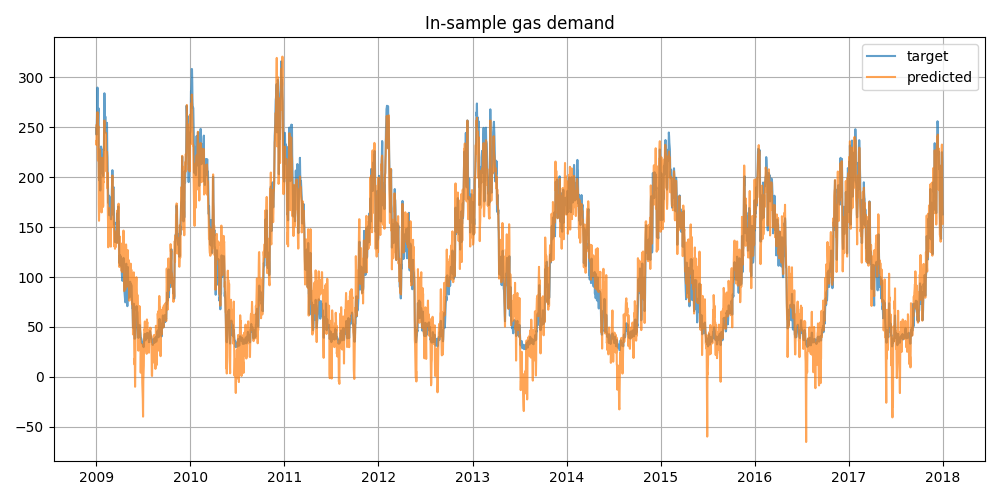
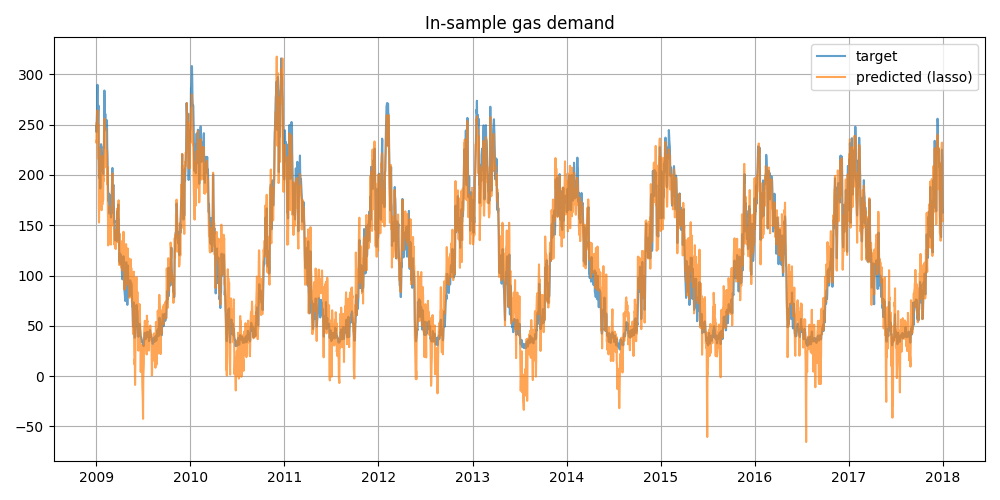
refactor and complete linear benchmark

diff --git a/data_exploration.py b/data_exploration.py
@@ -8,7 +8,8 @@ import pandas as pd
 import polars as pl
 import datetime as dt
 from matplotlib import pyplot as plt
-from sklearn.linear_model import LinearRegression
+from sklearn.linear_model import Lasso
+from sklearn.model_selection import GridSearchCV, KFold
 from enum import Enum
 from IPython.display import display
 
@@ -104,27 +105,46 @@ def norm2(x:np.ndarray, y:np.ndarray):
 train = (
     pl.read_csv("train.csv").drop("id")
 )
-
-lin = LinearRegression(
-    fit_intercept=True,
-    copy_X=True
-    )
-
-
-# # feature engineer : log K temp
-# log_k_temp_features = []
-# for c in temp_features:
-#     train = train.with_columns(np.log((pl.col(c) + TEMP_C_TO_K) / TEMP_C_TO_K))
-#     log_k_temp_features.append(c+"_logk")
+# feature engineer : log K temp
+log_k_temp_features = []
+for c in temp_features:
+    train = train.with_columns((np.log((pl.col(c) + TEMP_C_TO_K) / TEMP_C_TO_K)).alias(c+"_logk"))
+    log_k_temp_features.append(c+"_logk")
 
 y = train.select(TARGET_COL).to_numpy().T[0]
 X = train.select(pl.exclude([TARGET_COL, DATE_COL])).to_numpy()
 x_mean = np.mean(X, axis=0).copy()
 
-print(x_mean.shape)
-print(X.shape)
+print("Shape of the final feature set :", X.shape)
 
-lin.fit(X, y)
+# Define parameter grid for Lasso regularization
+param_grid = {
+    'alpha': np.logspace(-4, 2, 50)  # Test alpha values from 0.0001 to 100
+}
+
+# Set up 5-fold cross-validation with shuffling
+kfold = KFold(n_splits=5, shuffle=True, random_state=42)
+
+# Create Lasso model
+lasso = Lasso(fit_intercept=True, copy_X=True, max_iter=10000)
+
+# Perform grid search with cross-validation
+grid_search = GridSearchCV(
+    estimator=lasso,
+    param_grid=param_grid,
+    cv=kfold,
+    scoring='neg_root_mean_squared_error',
+    n_jobs=-1,
+    verbose=1
+)
+
+# Fit the grid search
+grid_search.fit(X, y)
+
+# Get the best model
+lin = grid_search.best_estimator_
+print(f"\nBest alpha: {grid_search.best_params_['alpha']:.6f}")
+print(f"Best CV RMSE: {-grid_search.best_score_:.4f}")
 
 y_hat = lin.predict(X)
 
@@ -140,7 +160,7 @@ fig, ax = plt.subplots(
 )
 
 ax.plot(dates, y, label='target', alpha=.7)
-ax.plot(dates, y_hat, label='predicted', alpha=.7)
+ax.plot(dates, y_hat, label='predicted (lasso)', alpha=.7)
 
 ax.grid()
 ax.legend()
@@ -157,7 +177,7 @@ test = pd.read_csv('test.csv')
 test_start, test_end = test[DATE_COL].agg(['min', 'max'])
 
 print(f"\nOut-of-sample data from {test_start} to {test_end}")
-print("Which is exactly one year.")
+print("Which is exactly two years.")
 dates_test = [dt.date.fromisoformat(d) for d in test[DATE_COL].to_numpy()]
 
 # %%
@@ -165,20 +185,20 @@ X_test = test[features].to_numpy()
 
 # %% Relative difference of features
 
-var_diff = (np.var(X, axis=0) - np.var(X_test, axis=0)) / np.var(X, axis=0)
-var_diff = pd.Series(var_diff, index=features)
-var_diff = var_diff.loc[var_diff.abs() > .05]
-colours = var_diff.apply(lambda v : 'green' if v > 0. else 'red')
-var_diff.sort_values().plot(
-    kind='bar',
-    title='OOS features, variance, relative difference',
-    color=var_diff.sort_values().index.to_series().map(colours).to_list(),
-    alpha=.5
-    )
+# var_diff = (np.var(X, axis=0) - np.var(X_test, axis=0)) / np.var(X, axis=0)
+# var_diff = pd.Series(var_diff, index=features)
+# var_diff = var_diff.loc[var_diff.abs() > .05]
+# colours = var_diff.apply(lambda v : 'green' if v > 0. else 'red')
+# var_diff.sort_values().plot(
+#     kind='bar',
+#     title='OOS features, variance, relative difference',
+#     color=var_diff.sort_values().index.to_series().map(colours).to_list(),
+#     alpha=.5
+#     )
 
-plt.tight_layout()
+# plt.tight_layout()
 
-plt.savefig(IMG_FOLDER / 'oos_var_diff.png')
+# plt.savefig(IMG_FOLDER / 'oos_var_diff.png')
 
 # %% 
 

diff --git a/README.md b/README.md
@@ -1,27 +1,40 @@
 # Quantitative modelling task to predict domestic gas demand
 
-The task is to perform a regression on a time-series
-with a daily frequency.
+The task is to perform a regression on a time-series (daily domestic gas demand in the UK)
+from aggregated humidity and temperature data.
+The training set spans 2009 to the end of 2019, 
+with no missing values or erroneous data types.
 
-In-sample target `demand` :
+There are 63 features related to wind, sun and temperature :
 
-<img src="img/train_demand.png" width="400px" />
+| Name | Description |
+| ---- | ----------- | 
+| temp | Day aggregated temperature |
+| temp_night | Overnight aggregated temperature | 
+| wind | Aggregated wind metric |
+| wind_night | Overnight wind metric | 
+| SSRD | Surface Solar Radiation Downward | 
+
+*SSRD : mean radiative power in a certain wavelength interval per suface unit*
+
+The in-sample target `demand` shows strong periodic patterns :
+
+<img src="img/train_demand.png" width="600px" />
 
 The out-of-sample distribution 
-which contains features for exactly a whole year,
-seemingly has a different distribution than the in-sample 
-empirical distribution, for instance for order 2 moments,
-many have large discrepancies between in/out sample. 
-
-<img src="img/oos_var_diff.png" width="400px" />
-
+contains daily data for exactly two years
+with no missing values either.
 
 ## Metrics 
+
+Classical regression metrics are used,
+without knowledge of the actual objective metric,
+and without domain-specific requirement with the current regression problem.
 
 **RMSE :**
 
 ```math
-\text{RMSE} = \sqrt{\frac{1}{N} \sum_{i=1}{N} (x_i - \bar{x})^2}
+\text{RMSE} = \sqrt{\frac{1}{N} \sum_{i=1}^{N} (x_i - \bar{x})^2}
 ```
 
 **R2 :**
@@ -30,19 +43,46 @@ many have large discrepancies between in/out sample.
 \text{R}^2 = 1 - \frac{\text{RSS}}{\text{TSS}}
 ```
 
-## Linear Regression benchmark
+## Outline
 
-- 5-fold cross-validation 
+Given the small amount of training data, 
+deep-learning methods risk ovrefitting.
+Moreover, given the clear periodicity,
+it seems relevant to incorporate that information in the choice of model design.
+
+To confirm the relevance of the periodicity design,
+benchmark models are first tested :
+
+1. [Linear regression with period-specific biases](#linear-regression-benchmark)
+2. [Gradient boost regression tree](#gradient-boost-regressor-prediction)
+
+Then, the model that has been retained to incorporate the periodicity of the data is a Gaussian process :
+
+3. [Gaussian process regressor](#gaussian-process-model)
+
+where the choice of kernel is paramount to learning the periodicity correctly.
+
+## Models 
+
+### Linear Regression benchmark
+
+- 5-fold cross-validation applied to tune regularisation parameter.
+- Feature engineer : 
+    - log kelvin temperature
+
+*In-sample prediction :*
+
+<img src="img/linear_prediction.png" width="500px" />
+
+*OOS prediction :*
+
+<img src="img/lin_oos.png" width="500px" />
+
+> [!WARNING]
+> The predicted demand is negative on many occurences.
 
 
-<img src="img/linear_prediction.png" width="400px" />
-
-
-The predicted demand is negative on many occurences :
-
-<img src="img/lin_oos.png" width="400px" />
-
-## Gradient Boost Regressor prediction
+### Gradient Boost Regressor prediction
 
 - Non-linear feature engineering
 - Feature importance analysis
@@ -53,11 +93,12 @@ The predicted demand is negative on many occurences :
 <img src="img/gb_oos_prediction.png" width="400px" />
 
 
-## Gaussian Process model
 
-### Kernel Design
+### Gaussian Process model
 
-The GP model uses a composite kernel to capture seasonality, trends, and noise:
+#### Kernel Design
+
+Composite kernel to capture seasonality, trends, and noise:
 
 ```math
 k(x, x') = k_{\text{seasonal}}(x, x') + k_{\text{trend}}(x, x') + k_{\text{noise}}(x, x')
@@ -81,7 +122,7 @@ k_{\text{noise}}(x, x') = \sigma_n^2 \cdot \delta(x, x')
 ```
 where σ_n² ∈ [1e-5, 1e1] optimized during training
 
-### Results
+#### Results
 
 In-sample prediction comparison with the true demand :
 
@@ -95,4 +136,11 @@ With reasonable confidence intervals :
 
 <img src="img/gp_oos_detail.png" width="400px" />
 
+## Discussion 
+
+**Feature engineering**
+
+**Incorporating external data**
+Gas and electricity prices
+Major events affecting gas supply in Europe like the invasion of Crimea in 2014, major anouncements about NordStream.
 
